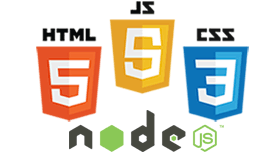
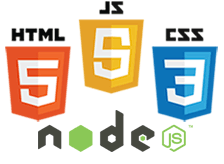
redesign start page

diff --git a/app/views/start.html b/app/views/start.html
@@ -7,7 +7,7 @@
   <div id="startBanner">
     <div class="bannerContent">
       <img src="../../images/icon-big.png" class="bannerImg"><br><br><br>
-      <h2 class="centerTitle">open-source experiment software for researchers</h3><br>
+      <h2 class="center">open-source experiment software for researchers</h3><br>
     </div>
   </div>
 
@@ -15,22 +15,35 @@
 
   <div class="container">
     <p class="lead center">Running computer-based experiments just got a whole lot easier with tatool.</p>
-    <br><br>
+    <br>
+    <hr>
+    <div class="leadLeft">
+      <img src="../../images/beta-icon.png">
+    </div>
+    <div class="leadRight">
+      <p>We're currently in Beta phase, but want you to already experience the new tatool for yourself. So go ahead and <a ui-sref="register" class="bold">register</a> for an account.
+      Make sure you follow us on Twitter to get the latest updates on new functionliaties. We also appreciate any feedback you have!</p>
+      <div class="socialButtons">
+        <a href="http://twitter.com/tatool_ch" target="_blank"><img src="../../images/twitter.png"></a>&nbsp;&nbsp;
+        <a href="http://www.facebook.com/tatool.ch" target="_blank"><img src="../../images/facebook.png"></a>
+      </div>
+    </div>
+    <br clear="both">
     <hr>
     <br><br>
     <div class="row">
       <div class="col-sm-4">
-        <img src="../../images/html-css-js-badges.png" class="img-responsive">
-        <h3>Flexible Standard</h3>
+        <img src="../../images/html-css-js-badges.png" class="img-responsive img-main">
+        <h3>Flexible Standards</h3>
         <p>We use the well-known web technology standards HTML5, CSS, JavaScript and node.js. This makes it easy to work with tatool and even simpler to find a developer.</p>
       </div>
       <div class="col-sm-4">
-        <img src="../../images/research.png" class="img-responsive">
+        <img src="../../images/research.png" class="img-responsive img-main">
         <h3>Built for researchers</h3>
         <p>We focused on the functionality that you need to get your research done. Go from programming, configuring experiments to collecting data and analysing it in no time.</p>
       </div>
       <div class="col-sm-4">
-        <img src="../../images/globe-browser.png" class="img-responsive">
+        <img src="../../images/globe-browser.png" class="img-responsive img-main">
         <h3>Reach everyone, everywhere</h3>
         <p>Thanks to our web technologies you can include participants from all around the world by telling them to simply start up their favourite web browser.</p>
       </div>

diff --git a/app/styles/tatool_app.css b/app/styles/tatool_app.css
@@ -180,9 +180,27 @@ iframe[src="about:blank"] { display: none; }
 #startContent .center {
   text-align: center;
 }
-
 #startContent .red {
   color: #c64925;
+}
+
+#startContent .leadLeft {
+  float: left;
+  margin-right: 20px;
+  height: 110px;
+}
+#startContent .leadRight {
+
+}
+#startContent .socialButtons {
+  text-align: center;
+  margin-top: 8px;
+}
+
+#startContent .img-main {
+  margin-left: auto;
+  margin-right: auto;
+  margin-bottom: 15px;
 }
 
 .redBanner {
@@ -228,10 +246,6 @@ iframe[src="about:blank"] { display: none; }
   padding-bottom: 10px;
 }
 
-#startContent .centerTitle {
-  text-align: center;
-}
-
 #startContent .img-screen {
 display: block;
 margin-left: auto;
@@ -239,11 +253,6 @@ margin-right: auto;
 -webkit-box-shadow: 3px 3px 13px 0px rgba(64,64,64,0.54);
 -moz-box-shadow: 3px 3px 13px 0px rgba(64,64,64,0.54);
 box-shadow: 3px 3px 13px 0px rgba(64,64,64,0.54);
-}
-
-#startContent .img-beta {
-  float: left;
-  margin-right: 30px;
 }
 
 

diff --git a/app/views/slide-collect.html b/app/views/slide-collect.html
@@ -10,5 +10,5 @@
     </p>
 </div>
 <div class="col-sm-6">
-  <img src="../../images/tatool-screen-collect.png" class="img-screen">
+  <img src="../../images/tatool-screen-collect.png" class="img-screen img-responsive">
 </div>

diff --git a/app/views/slide-publish.html b/app/views/slide-publish.html
@@ -10,5 +10,5 @@
     </p>
 </div>
 <div class="col-sm-6">
-  <img src="../../images/tatool-screen-publish.png" class="img-screen">
+  <img src="../../images/tatool-screen-publish.png" class="img-screen img-responsive">
 </div>

diff --git a/app/views/slide-analyse.html b/app/views/slide-analyse.html
@@ -9,5 +9,5 @@
     </p>
 </div>
 <div class="col-sm-6">
-  <img src="../../images/tatool-screen-analyse.png" class="img-screen">
+  <img src="../../images/tatool-screen-analyse.png" class="img-screen img-responsive">
 </div>

diff --git a/app/views/slide-develop.html b/app/views/slide-develop.html
@@ -9,5 +9,5 @@
     </p>
 </div>
 <div class="col-sm-6">
-  <img src="../../images/tatool-screen-develop.png" class="img-screen">
+  <img src="../../images/tatool-screen-develop.png" class="img-screen img-responsive">
 </div>
